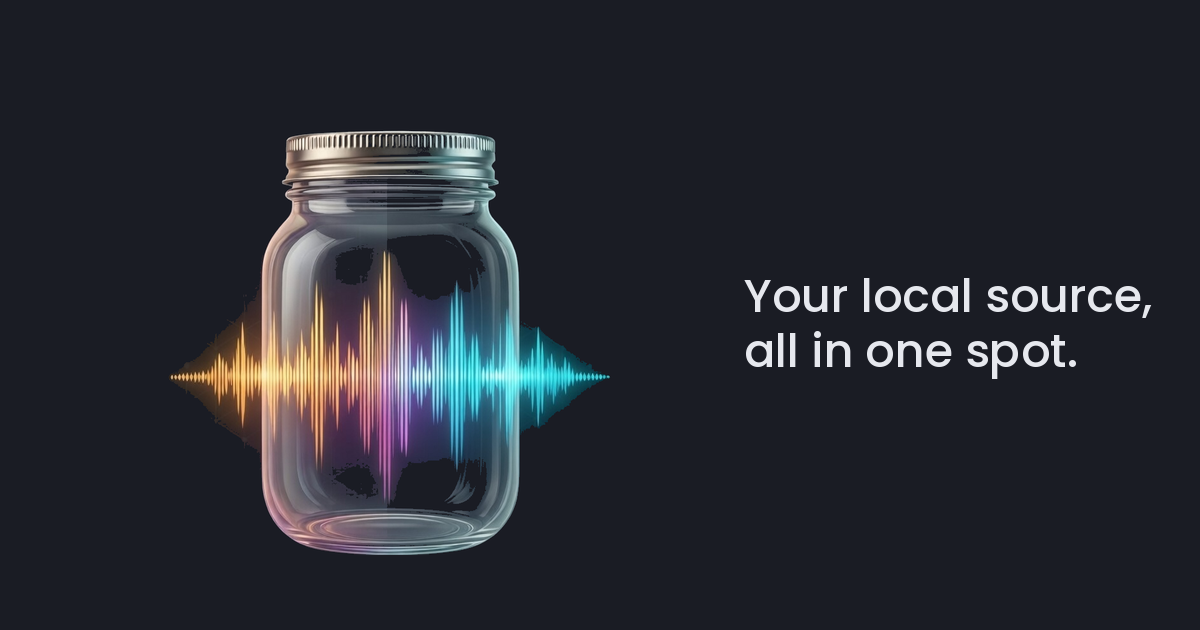
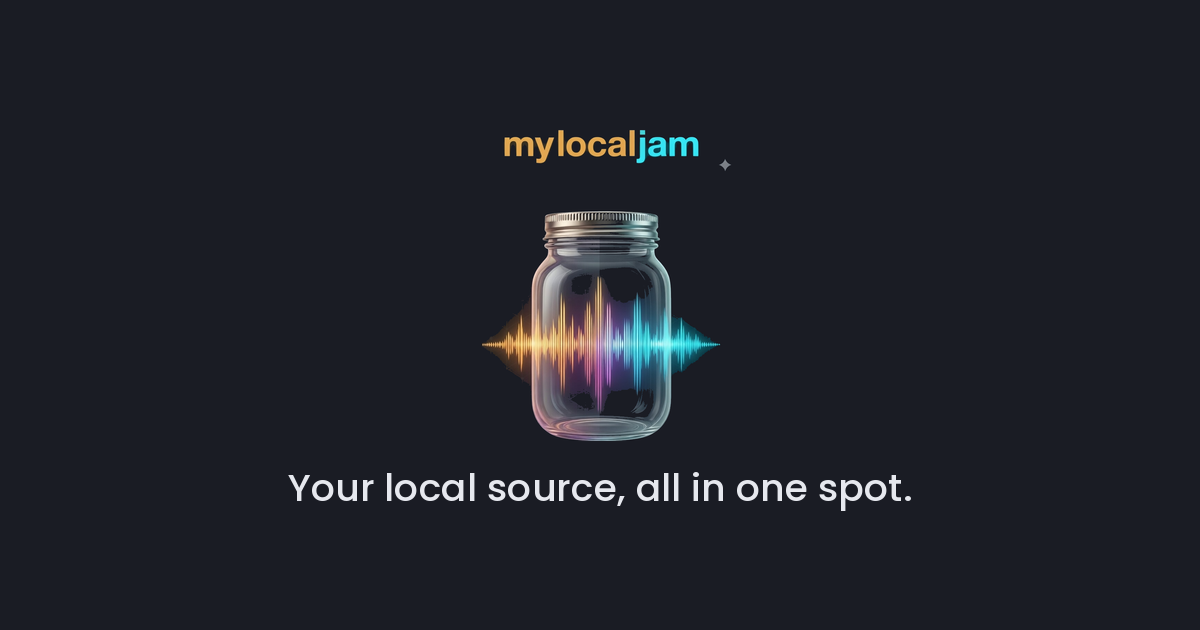
Update OG image and title: centered layout, no redundancy

Changed region(s): [[0.1233, 0.181, 0.9558, 0.9048]]

diff --git a/src/app/layout.js b/src/app/layout.js
@@ -7,7 +7,7 @@ export const metadata = {
   description: 'Your local source, all in one spot.',
   keywords: 'live music, jersey shore, asbury park, belmar, point pleasant, concerts, events tonight, local bands, NJ music',
   openGraph: {
-    title: 'mylocaljam.com',
+    title: 'mylocaljam',
     description: 'Your local source, all in one spot.',
     url: 'https://mylocaljam.com',
     siteName: 'myLocaljam',
@@ -23,7 +23,7 @@ export const metadata = {
   },
   twitter: {
     card: 'summary_large_image',
-    title: 'mylocaljam.com',
+    title: 'mylocaljam',
     description: 'Your local source, all in one spot.',
     images: ['/images/og-share.png'],
   },
